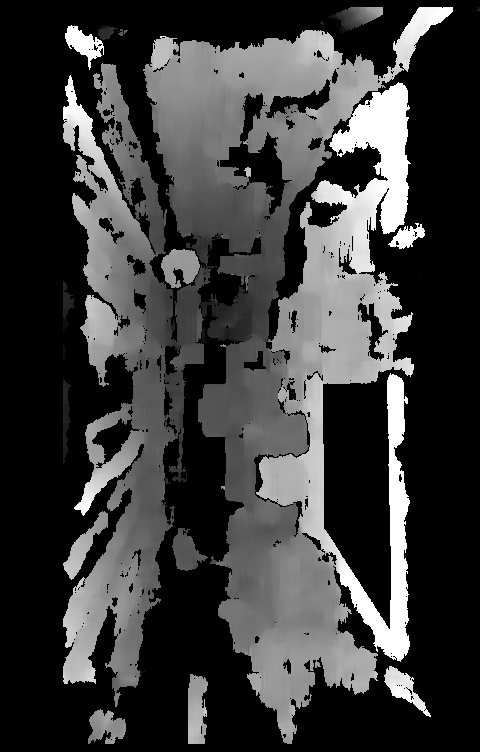
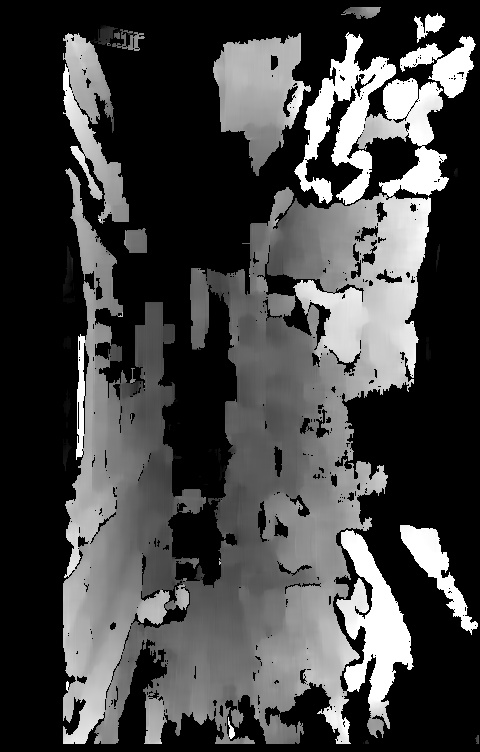
testing downsampling and statistical outlier not really needed

diff --git a/src/read_point_cloud.cc b/src/read_point_cloud.cc
@@ -477,11 +477,11 @@ Mat getStitchedAndPointCloud(OccamDevice *device,
     // printf("Number of points converted to PCL: %d\n", numConverted);
 
     // Downsample the pointcloud
-    pcl::VoxelGrid<PointT> vgf;
-    vgf.setInputCloud (tempCloud);
-    float leaf_size = 0.10f;
-    vgf.setLeafSize (leaf_size, leaf_size, leaf_size);
-    vgf.filter (*tempCloud);
+    // pcl::VoxelGrid<PointT> vgf;
+    // vgf.setInputCloud (tempCloud);
+    // float leaf_size = 0.01f;
+    // vgf.setLeafSize (leaf_size, leaf_size, leaf_size);
+    // vgf.filter (*tempCloud);
 
     // combine extrisic transform and then apply to the cloud
     Eigen::Matrix4f combined_transform = odom_occam_transform * extrisic_transforms[i];
@@ -552,13 +552,14 @@ int main(int argc, char **argv) {
     cropFilter.filter (*cloud); 
 
 
-    // start = clock();
+    start = clock();
     // Downsample the pointcloud
-    // pcl::VoxelGrid<PointT> vgf;
-    // vgf.setInputCloud (cloud);
-    // vgf.setLeafSize (0.05f, 0.05f, 0.05f);
-    // vgf.filter (*cloud);
-    // cout << (( clock() - start ) / (double) CLOCKS_PER_SEC) << " ################" << endl;
+    pcl::VoxelGrid<PointT> vgf;
+    vgf.setInputCloud (cloud);
+    float leaf_size = 0.015f;
+    vgf.setLeafSize (leaf_size, leaf_size, leaf_size);
+    vgf.filter (*cloud);
+    cout << (( clock() - start ) / (double) CLOCKS_PER_SEC) << " ################" << endl;
 
     // // Remove the ground using the given plane coefficients 
     // float plane_dist_thresh = 0.1;
@@ -582,15 +583,15 @@ int main(int argc, char **argv) {
     //ransacRemoveMultiple (cloud, plane_dist_thresh, 100, 500); 
 
     // Remove outliers to make point cloud cleaner
-    start = clock();
-    int outlier_num_points = 50;
-    float outlier_std_dev = 1.0;
-    pcl::StatisticalOutlierRemoval<PointT> sor;
-    sor.setInputCloud (cloud);
-    sor.setMeanK (outlier_num_points);
-    sor.setStddevMulThresh (outlier_std_dev);
-    sor.filter (*cloud);
-    cout << (( clock() - start ) / (double) CLOCKS_PER_SEC) << " $$$$$$$$$$$$$$$$" << endl;
+    // start = clock();
+    // int outlier_num_points = 50;
+    // float outlier_std_dev = 1.0;
+    // pcl::StatisticalOutlierRemoval<PointT> sor;
+    // sor.setInputCloud (cloud);
+    // sor.setMeanK (outlier_num_points);
+    // sor.setStddevMulThresh (outlier_std_dev);
+    // sor.filter (*cloud);
+    // cout << (( clock() - start ) / (double) CLOCKS_PER_SEC) << " $$$$$$$$$$$$$$$$" << endl;
 
     // pcl::RadiusOutlierRemoval<PointT> outrem;
     // outrem.setInputCloud(cloud);
@@ -624,8 +625,8 @@ int main(int argc, char **argv) {
     pc_img_msg.img = *img_msg;
 
     // Publish all msgs
-    stitched_pub.publish(img_msg);
-    pc2_pub.publish(pc2);
+    // stitched_pub.publish(img_msg);
+    // pc2_pub.publish(pc2);
     pc2_and_stitched_pub.publish(pc_img_msg);
 
     ros::spinOnce();
